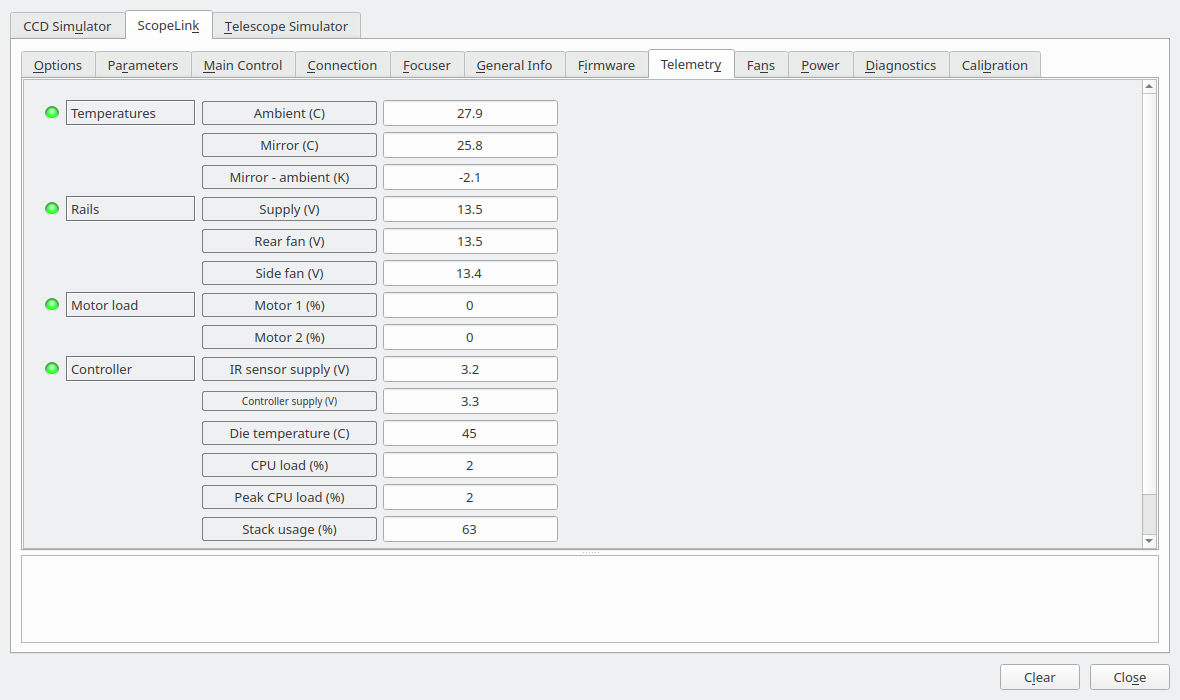
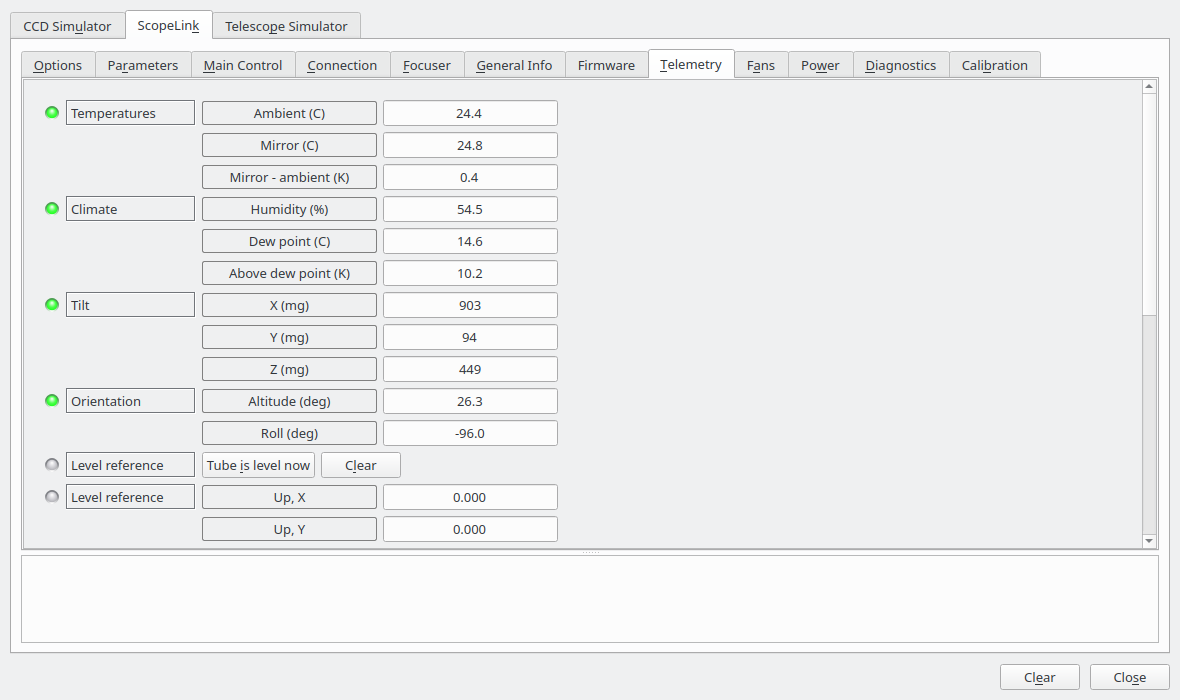
scopelink: the sensor module, climate and tube orientation
Follows the driver going to 1.2 in indi-3rdparty. Telemetry describes what the
sensor module measures, the Climate and Tilt readings interface 1.2 adds, and
how they are smoothed. A new Orientation section covers altitude, roll and the
level reference. The fan targets are said to need the infrared sensor, and
generation 4 is no longer described as interface 1.1 only.

The Telemetry tab now scrolls, so it takes two pictures, both taken on a
generation 4 controller with the humidity and tilt module: telemetry.webp shows
the new groups, and telemetry-diagnostics.webp the controller diagnostics.

diff --git a/src/content/docs/focusers/astrolabs/scopelink/scopelink.md b/src/content/docs/focusers/astrolabs/scopelink/scopelink.md
@@ -15,7 +15,7 @@ thumbnail: ./scopelink.webp
 | **Executable** | `indi_scopelink` |
 | **Author** | Bence Toth, Astrolabs Hungary Kft. |
 | **Maintainer** | Bence Toth &lt;bence.toth@astrolabs.hu&gt; |
-| **Version** | 1.1 |
+| **Version** | 1.2 |
 | **Device type** | Focuser, rotator, dust cap, light box, auxiliary |
 | **Connection** | Serial (USB CDC-ACM) |
 | **Minimum INDI** | 2.0.0 |
@@ -166,7 +166,8 @@ Two options are worth setting before the first connection, on the **Options** ta
 - **Simulated hardware** — which controller the driver imitates while **Simulation** is on. Ignored
   otherwise. Four entries for three generations, because a generation is not a frame layout: the same
   generation 3 board runs interface 1.0 and 1.1, and 1.1 is a different layout rather than a different
-  board. Generation 4 exists only on 1.1 and so needs no second entry. See "Running without a controller"
+  board. Generation 4 is simulated on interface 1.2, the firmware it ships with, and so needs no second
+  entry. See "Running without a controller"
   below.
 
 ![The Options tab](./images/options.webp)
@@ -183,7 +184,8 @@ below behaves as it does on hardware, including motion, the flat panel, the faul
 configuration parameters. **Simulated hardware** on the Options tab picks which controller it imitates,
 which is what makes the differences between them visible — the USB hub and the smart switch settings
 appear and disappear as they would on the real controllers, and the interface 1.1 entry sends the frame
-layout that firmware uses.
+layout that firmware uses. Generation 4 is simulated on interface 1.2, with a sensor module that has every
+sensor on it.
 
 It is meant for trying the driver out, for reproducing a problem without the hardware to hand, and for
 client development. The simulated controller is answerable and self consistent; it is not a model of the
@@ -277,11 +279,55 @@ the panel on with the brightness at zero produces no light, and the driver says 
 Read-only. Supply, rear fan and side fan rail voltages; ambient and mirror temperature and the
 difference between them; and the load on each motor.
 
-With **Controller diagnostics** enabled in Options, a second group appears with the infrared sensor
+What the sensor module measures decides which of these appear. Every module measures the air, so the
+focuser's temperature is there on all of them; the mirror and the difference need the infrared sensor,
+which the module without one does not have. From interface 1.2 the module with the humidity sensor adds
+**Climate** — relative humidity, dew point, and how far the mirror is above the dew point — and a module
+with an accelerometer adds **Tilt**, the acceleration along its three axes in thousandths of g.
+
+The margin above the dew point is taken from the mirror, because the mirror is what fogs; while the
+mirror is not being measured it is taken from the air instead. At or below zero, the mirror is at the dew
+point.
+
+Humidity, dew point and the three axes are smoothed over a few readings, so that the last digit does not
+flicker: the humidity and dew point settle over about fifteen seconds, the axes over about a second. A
+real jump — a door opened onto the night, the tube knocked to a new position — that is still there on the
+next reading is shown at once. A single odd reading is ignored.
+
+![The top of the Telemetry tab on a controller with the humidity and tilt module](./images/telemetry.webp)
+
+### Orientation
+
+Where the module has an accelerometer, **Orientation** shows which way the tube is pointing, worked out
+from the smoothed axes:
+
+- **Altitude**: how far the tube is raised above the horizon, from 90° at the zenith to −90° straight
+  down.
+- **Roll**: how far the tube is turned about its own length, from −180° to 180°, positive turning
+  clockwise as seen from behind the tube looking out of the sky end.
+
+Which way round the compass the tube faces cannot be measured by an accelerometer and is not shown.
+Within 5° of the zenith or the nadir the roll cannot be measured either; there the last roll is held and
+the property turns idle until the tube comes down again. An alert means the module is reporting no
+acceleration, or one too weak to be gravity.
+
+Until told otherwise, the driver assumes the module is fitted the way it was designed to be: its Z axis
+along the tube towards the sky, and its Y axis pointing at the ground with the tube level. A module fitted
+a few degrees crooked, or turned round the tube, reads the tube that much raised or rolled. To correct
+that, point the tube level, at the roll you normally use it at, hold it still, and press **Tube is level
+now** under **Level reference**. Pressing **Clear** goes back to the design assumption.
+
+The reference is refused while the tube is moving or being handled (the module reading more than 15% away
+from 1 g), and when the module's Z axis is more than 30° from horizontal with the tube level — which means
+the module is not fitted with Z along the tube at all. It is kept in the driver's configuration, not on the
+controller, and is shown beside the switch as the direction the accelerometer read as up; all zeros means
+there is no reference.
+
+With **Controller diagnostics** enabled in Options, a second group appears with the sensor module
 supply, the controller's own supply and die temperature, CPU and peak CPU load, stack usage and the I²C
 error counter.
 
-![The Telemetry tab with controller diagnostics enabled](./images/telemetry.webp)
+![The bottom of the Telemetry tab, with controller diagnostics enabled](./images/telemetry-diagnostics.webp)
 
 ## Fans
 
@@ -290,7 +336,7 @@ Each fan can be left under the controller's own thermostat or taken over manuall
 - **Manual control** — enables the override for each fan independently.
 - **Commanded state** — what each fan does while its override is enabled.
 - **Automatic targets** — the mirror-to-ambient temperature difference each fan aims at when it is not
-  overridden, in Kelvin. Only offered on a unit with the temperature sensor fitted, since there is
+  overridden, in Kelvin. Only offered on a unit with the infrared sensor fitted, since there is
   nothing to regulate against without it.
 
 ![The Fans tab](./images/fans.webp)
